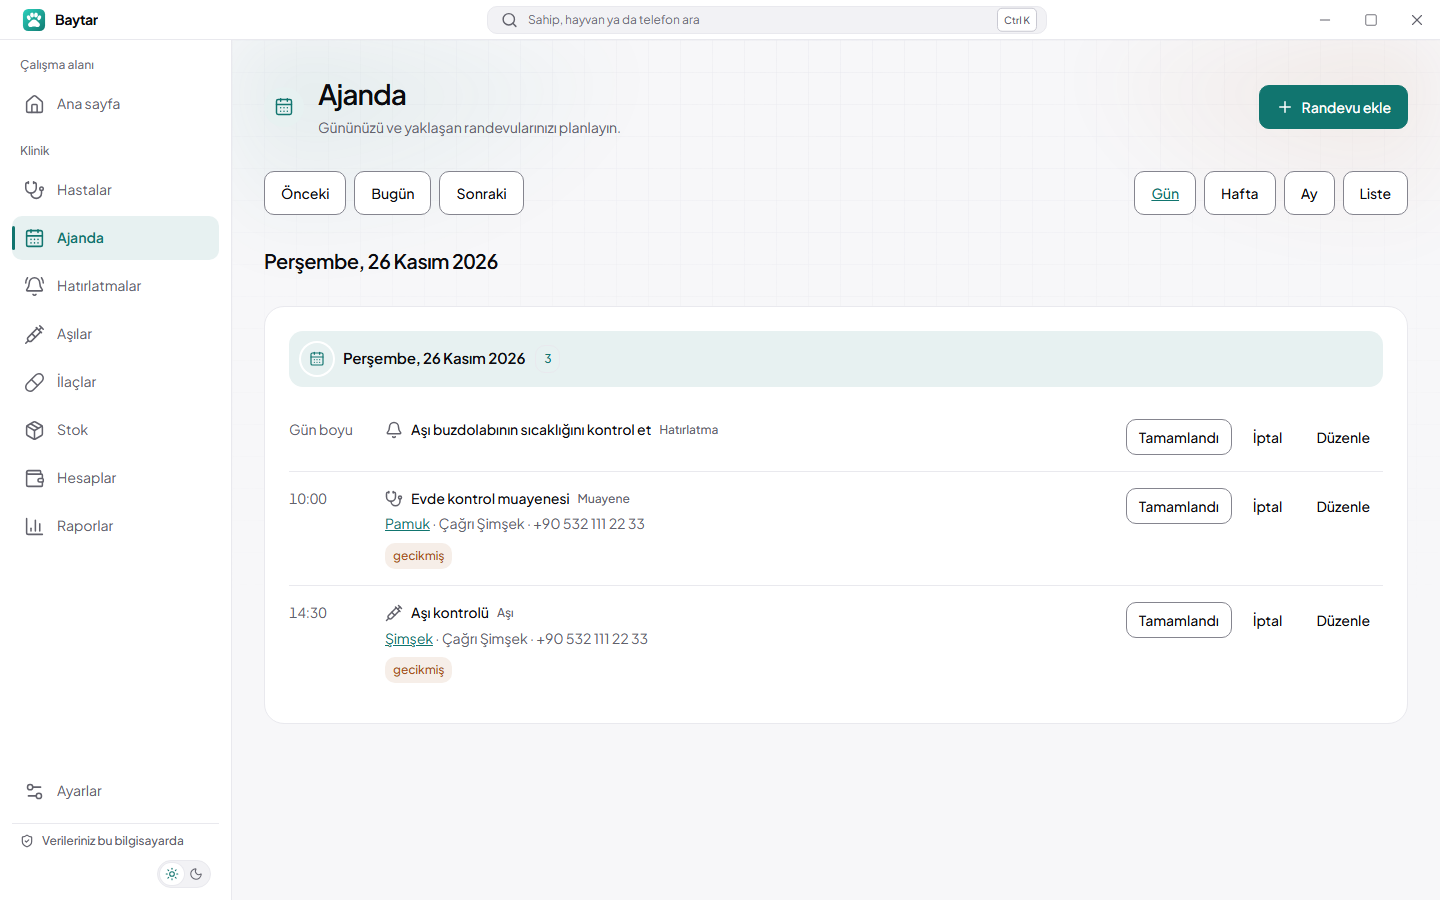
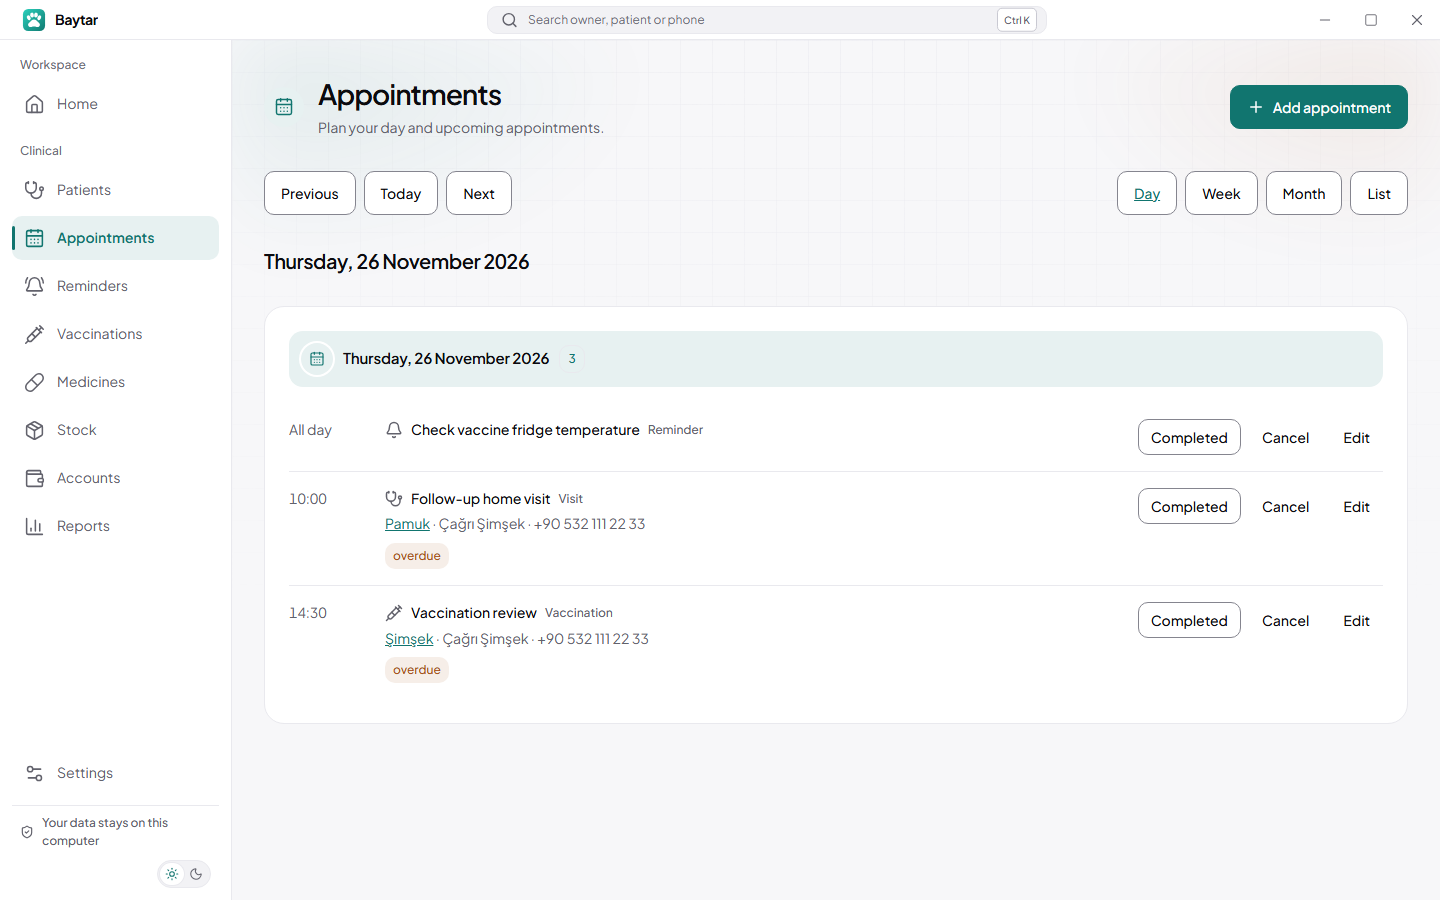
chore: release 0.5.0 with five interface languages; English screenshots
GitHub shows the English interface; the Turkish README section keeps Turkish captures under
docs/screenshots/tr. Browser demo records follow the interface language. New locale-smoke
scenario switches the real window through all five languages.

Refs: bay-m19

diff --git a/app/src/lib/api/clinical-mock.ts b/app/src/lib/api/clinical-mock.ts
@@ -1,4 +1,5 @@
 import { seriesDates } from '$lib/components/agenda/calendar';
+import { demo } from './demo-text';
 import type { Audit, ApiError, Owner, Patient, Visit, NewVisit, VisitPatch, VaccineType, NewVaccineType, VaccineTypePatch, Vaccination, NewVaccination, VaccinationPatch, Medication, NewMedication, MedicationPatch, PrescriptionItem, NewPrescription, PrescriptionPatch, Appointment, NewAppointment, AppointmentPatch, LatestWeight, DueVaccination, CalendarAppointment, CommandMap } from './types';
 interface Context { patientGet(id: number): Patient; ownerGet(id: number): Owner; fail(kind: ApiError["kind"], message: string, field?: string): never; fold(value: string): string; now(): string }
 export function createClinicalMock(ctx: Context) {
@@ -173,14 +174,14 @@ function createSeries(base: NewAppointment, count: number, everyDays: number, ev
   catch (error) { appointments.splice(size); throw error; }
 }
 for (const [name, interval, species] of [
-  ['Karma aşı',365,'dog'], ['Kuduz aşısı',365,null], ['İç parazit',90,null], ['Dış parazit',30,null], ['Kedi karma aşısı',365,'cat'], ['Lösemi aşısı (FeLV)',365,'cat']
+  [demo.combined,365,'dog'], [demo.rabies,365,null], [demo.internalParasite,90,null], [demo.externalParasite,30,null], [demo.catCombined,365,'cat'], [demo.felv,365,'cat']
 ] as const) vaccine_typesCreate({ name, defaultIntervalDays: interval, species });
 // Synthetic examples use the same patient ids as the owner/patient browser fixture.
 const example = visitsCreate({ patientId: 4, visitOn: '2026-11-04', weightKg: 4.2 });
-const medicine = medicationsCreate({ name: 'Örnek antibiyotik', activeIngredient: 'Amoksisilin', form: 'tablet', strengthMgPerUnit: 50 });
+const medicine = medicationsCreate({ name: demo.antibiotic, activeIngredient: demo.amoxicillin, form: 'tablet', strengthMgPerUnit: 50 });
 prescriptionsCreate({ visitId: example.id, medicationId: medicine.id, medicationName: medicine.name, doseMg: 25 });
 vaccinationsCreate({ patientId: 4, vaccineTypeId: vaccine_types[4].id, vaccineName: vaccine_types[4].name, givenOn: '2026-11-04', nextDueOn: '2027-11-04' });
-appointmentsCreate({ patientId: 4, startsOn: '2026-11-05', startsTime: '09:00', title: 'Kontrol muayenesi', kind: 'visit' });
+appointmentsCreate({ patientId: 4, startsOn: '2026-11-05', startsTime: '09:00', title: demo.checkup, kind: 'visit' });
 
 return { has: (command: string) => command in handlers, call: (command: string, args: unknown) => handlers[command](args) };
 }

diff --git a/app/src/lib/api/client.ts b/app/src/lib/api/client.ts
@@ -1,4 +1,5 @@
 import { toE164 } from '$lib/validation';
+import { demo } from './demo-text';
 import { tr, importIssueKeys } from '$lib/i18n/tr';
 import { createBillingMock } from './billing-mock';
 import { createClinicalMock } from './clinical-mock';
@@ -121,8 +122,8 @@ function search(query: string, limit: number): SearchHit[] {
 const first = ownerCreate({ fullName: 'Çağrı Şimşek', phone: '+905321112233' });
 const second = ownerCreate({ fullName: 'İpek Öztürk', phone: '+905442223344' });
 const third = ownerCreate({ fullName: 'Ayşe Işık' });
-patientCreate({ ownerId: first.id, name: 'Pamuk', species: 'cat', breed: 'Ankara kedisi', sex: 'female', neutered: true, birthDate: '2022-04-12', color: 'Beyaz', microchip: '900108001234567' });
-patientCreate({ ownerId: first.id, name: 'Şimşek', species: 'dog', breed: 'Golden retriever', sex: 'male', neutered: false, birthDate: '2024-09-01', birthDateIsEstimate: true, color: 'Sarı' });
+patientCreate({ ownerId: first.id, name: 'Pamuk', species: 'cat', breed: demo.catBreed, sex: 'female', neutered: true, birthDate: '2022-04-12', color: demo.white, microchip: '900108001234567' });
+patientCreate({ ownerId: first.id, name: 'Şimşek', species: 'dog', breed: 'Golden retriever', sex: 'male', neutered: false, birthDate: '2024-09-01', birthDateIsEstimate: true, color: demo.golden });
 patientCreate({ ownerId: second.id, name: 'Boncuk', species: 'bird' });
 patientCreate({ ownerId: third.id, name: 'Fındık', species: 'rabbit' });
 
@@ -141,7 +142,7 @@ const demoDate = (offset: number) => {
   return `${date.getFullYear()}-${String(date.getMonth() + 1).padStart(2, '0')}-${String(date.getDate()).padStart(2, '0')}`;
 };
 const demoTypes = clinical.call('vaccine_types_list', {}) as import('./types').VaccineType[];
-for (const [patientIndex, name, dueOffset] of [[0, 'Kuduz aşısı', -5], [0, 'İç parazit', 10], [1, 'Karma aşı', 25]] as const) {
+for (const [patientIndex, name, dueOffset] of [[0, demo.rabies, -5], [0, demo.internalParasite, 10], [1, demo.combined, 25]] as const) {
   const type = demoTypes.find(row => row.name === name)!;
   clinical.call('vaccination_create', { input: { patientId: patients[patientIndex].id, vaccineTypeId: type.id,
     vaccineName: type.name, givenOn: demoDate(dueOffset - 365), nextDueOn: demoDate(dueOffset) } });

diff --git a/app/src/lib/api/demo-text.ts b/app/src/lib/api/demo-text.ts
@@ -1,0 +1,15 @@
+import { locale } from '$lib/i18n';
+
+// Sample record text for the browser demo only (never written to a real database). Turkish for a Turkish
+// interface, English for every other language so screenshots do not mix languages.
+const turkish = {
+  catBreed: 'Ankara kedisi', white: 'Beyaz', golden: 'Sarı', combined: 'Karma aşı', rabies: 'Kuduz aşısı',
+  internalParasite: 'İç parazit', externalParasite: 'Dış parazit', catCombined: 'Kedi karma aşısı',
+  felv: 'Lösemi aşısı (FeLV)', antibiotic: 'Örnek antibiyotik', amoxicillin: 'Amoksisilin', checkup: 'Kontrol muayenesi'
+};
+const english: typeof turkish = {
+  catBreed: 'Turkish Angora', white: 'White', golden: 'Golden', combined: 'Combined vaccine (DHPPi)', rabies: 'Rabies vaccine',
+  internalParasite: 'Internal parasite treatment', externalParasite: 'External parasite treatment', catCombined: 'Feline combined vaccine (RCP)',
+  felv: 'Feline leukaemia vaccine (FeLV)', antibiotic: 'Sample antibiotic', amoxicillin: 'Amoxicillin', checkup: 'Check-up'
+};
+export const demo = locale === 'tr' ? turkish : english;

diff --git a/README.md b/README.md
@@ -133,9 +133,9 @@ Serbest çalışan veteriner hekimler ve küçük pet klinikleri için ücretsiz
 **[En güncel sürümü indirin](https://github.com/muhammedalikutbay/baytar/releases/latest)**
 
 <picture>
-  <source media="(prefers-color-scheme: dark)" srcset="docs/screenshots/home-dark.png">
-  <source media="(prefers-color-scheme: light)" srcset="docs/screenshots/home-light.png">
-  <img alt="Baytar ana ekranı" src="docs/screenshots/home-light.png">
+  <source media="(prefers-color-scheme: dark)" srcset="docs/screenshots/tr/home-dark.png">
+  <source media="(prefers-color-scheme: light)" srcset="docs/screenshots/tr/home-light.png">
+  <img alt="Baytar ana ekranı" src="docs/screenshots/tr/home-light.png">
 </picture>
 
 ### Neden Baytar?
@@ -163,12 +163,12 @@ Baytar, kliniği olmadan serbest veteriner hekim olarak çalışan bir yakınım
 
 | | |
 |---|---|
-| ![Hasta sayfası](docs/screenshots/patient-light.png)<br>Hasta sayfası: yaklaşanlar, kilo eğrisi, geçmiş, aşılar, randevular ve dosyalar. | ![Sahip sayfası](docs/screenshots/owner-light.png)<br>Sahip sayfası: önce hayvanlar, iletişim, hesap ve ekstre. |
-| ![Aşılar](docs/screenshots/vaccines-light.png)<br>Aşı uygulama ve planlama, takvim, yaklaşan ve geciken aşılar. | ![Ajanda](docs/screenshots/agenda-light.png)<br>Gün, hafta, ay ve liste görünümleri. |
-| ![Hatırlatmalar](docs/screenshots/reminders-dark.png)<br>WhatsApp mesajlarıyla hatırlatma merkezi. | ![Hesaplar](docs/screenshots/accounts-light.png)<br>Borç yaşıyla alacaklar, kasa ve fiyat listesi. |
-| ![Stok](docs/screenshots/inventory-light.png)<br>Parti ve son kullanma tarihli stok, uyarılar. | ![Raporlar](docs/screenshots/reports-dark.png)<br>Aylık raporlar ve CSV dışa aktarma. |
+| ![Hasta sayfası](docs/screenshots/tr/patient-light.png)<br>Hasta sayfası: yaklaşanlar, kilo eğrisi, geçmiş, aşılar, randevular ve dosyalar. | ![Sahip sayfası](docs/screenshots/tr/owner-light.png)<br>Sahip sayfası: önce hayvanlar, iletişim, hesap ve ekstre. |
+| ![Aşılar](docs/screenshots/tr/vaccines-light.png)<br>Aşı uygulama ve planlama, takvim, yaklaşan ve geciken aşılar. | ![Ajanda](docs/screenshots/tr/agenda-light.png)<br>Gün, hafta, ay ve liste görünümleri. |
+| ![Hatırlatmalar](docs/screenshots/tr/reminders-dark.png)<br>WhatsApp mesajlarıyla hatırlatma merkezi. | ![Hesaplar](docs/screenshots/tr/accounts-light.png)<br>Borç yaşıyla alacaklar, kasa ve fiyat listesi. |
+| ![Stok](docs/screenshots/tr/inventory-light.png)<br>Parti ve son kullanma tarihli stok, uyarılar. | ![Raporlar](docs/screenshots/tr/reports-dark.png)<br>Aylık raporlar ve CSV dışa aktarma. |
 
-Her ekranın açık ve koyu teması var; uygulama siz seçene kadar sistem ayarını izler. Diğer görüntüler [docs/screenshots](docs/screenshots/) klasöründe.
+Her ekranın açık ve koyu teması var; uygulama siz seçene kadar sistem ayarını izler. Diğer görüntüler [docs/screenshots](docs/screenshots/tr/) klasöründe.
 
 ### İndirme ve kurulum
 

diff --git a/docs/README.md b/docs/README.md
@@ -2,12 +2,13 @@
 
 Project documentation for development, data handling, design and releases:
 
+- [Internationalization](i18n.md) — languages, regional settings and how to add a language.
 - [v2 plan](v2-plan.md) — scope and design of the practice-tool rewrite.
 - [Agent brief](agent-brief.md) — scope and working rules for project contributors.
 - [Data model](data-model.md) — SQLite schema, storage conventions and domain records.
 - [Legacy schema](legacy-schema.md) — PatientsCare database structure, known data issues and import behavior.
 - [Design language](design-language.md) — interface principles, theme tokens, typography and component guidance.
 - [Releasing](releasing.md) — versioning, release builds, signing and installation notes.
-- [Screenshots](screenshots/) — light and dark captures of every screen (synthetic demo data).
+- [Screenshots](screenshots/) — light and dark captures of every screen in English, Turkish captures in `screenshots/tr/` (synthetic demo data).
 
 For user installation, development setup, project architecture and contribution guidance, see the [README](../README.md) and [Contributing guide](../CONTRIBUTING.md).

diff --git a/CHANGELOG.md b/CHANGELOG.md
@@ -3,6 +3,15 @@
 All notable changes to Baytar. Versions follow [Semantic Versioning](https://semver.org/); before 1.0 a minor
 version may change the database schema (Baytar migrates it automatically and backs it up first).
 
+## 0.5.0 — 2026-11-26
+
+### Added
+- Interface languages: English, Turkish, German, Spanish and French. Baytar picks the system language on first start;
+  change it under Settings → Language and region or on the welcome screen.
+- Dates, numbers and country names follow the chosen language. Currency (TRY, EUR, USD, GBP, CHF) and the default
+  phone country are configurable.
+- CSV exports and the saved import report use the chosen language.
+
 ## 0.4.0 — 2026-11-26
 
 First public release of the rewrite.
